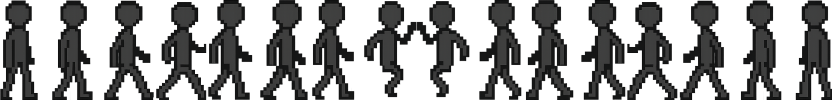
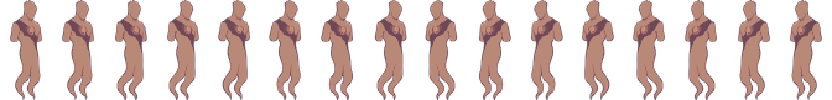
Update character

diff --git a/src/player.cpp b/src/player.cpp
@@ -26,7 +26,7 @@ Player::Player()
     auto air_right = get_animation().get_regions({7});
 
     rinvid::Animation idle_right_animation{0.0F, idle_right, rinvid::AnimationMode::Normal};
-    rinvid::Animation walking_right_animation{12.0F, walking_right, rinvid::AnimationMode::Looping};
+    rinvid::Animation walking_right_animation{8.0F, walking_right, rinvid::AnimationMode::Looping};
     rinvid::Animation air_right_animation{0.0F, air_right, rinvid::AnimationMode::Normal};
 
     get_animation().add_animation("idle_right", idle_right_animation);
@@ -38,7 +38,7 @@ Player::Player()
     auto air_left = get_animation().get_regions({8});
 
     rinvid::Animation idle_left_animation{0.0F, idle_left, rinvid::AnimationMode::Normal};
-    rinvid::Animation walking_left_animation{12.0F, walking_left, rinvid::AnimationMode::Looping};
+    rinvid::Animation walking_left_animation{8.0F, walking_left, rinvid::AnimationMode::Looping};
     rinvid::Animation air_left_animation{0.0F, air_left, rinvid::AnimationMode::Normal};
 
     get_animation().add_animation("idle_left", idle_left_animation);